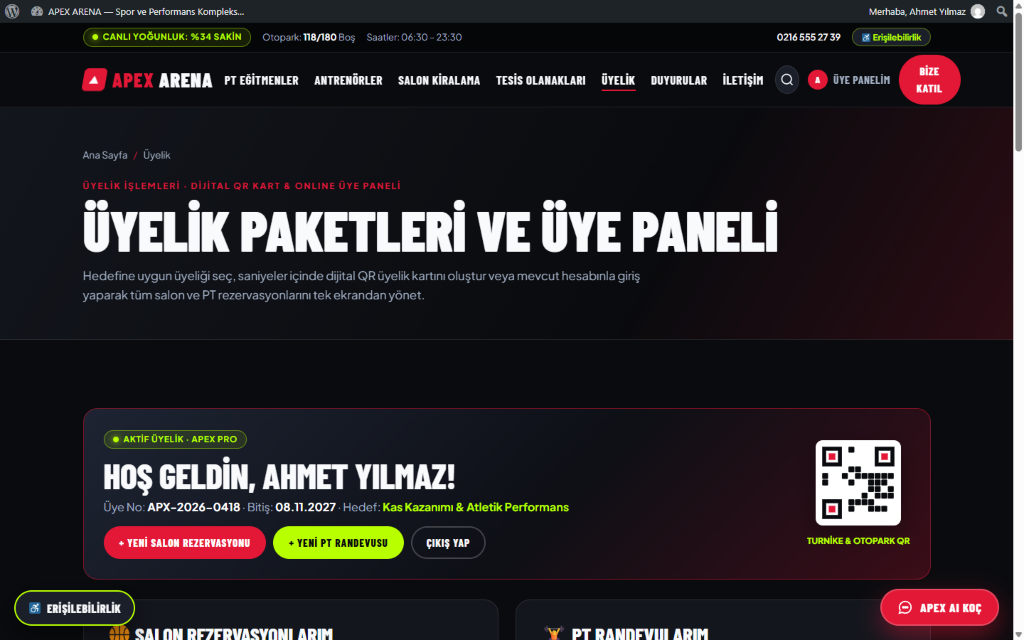
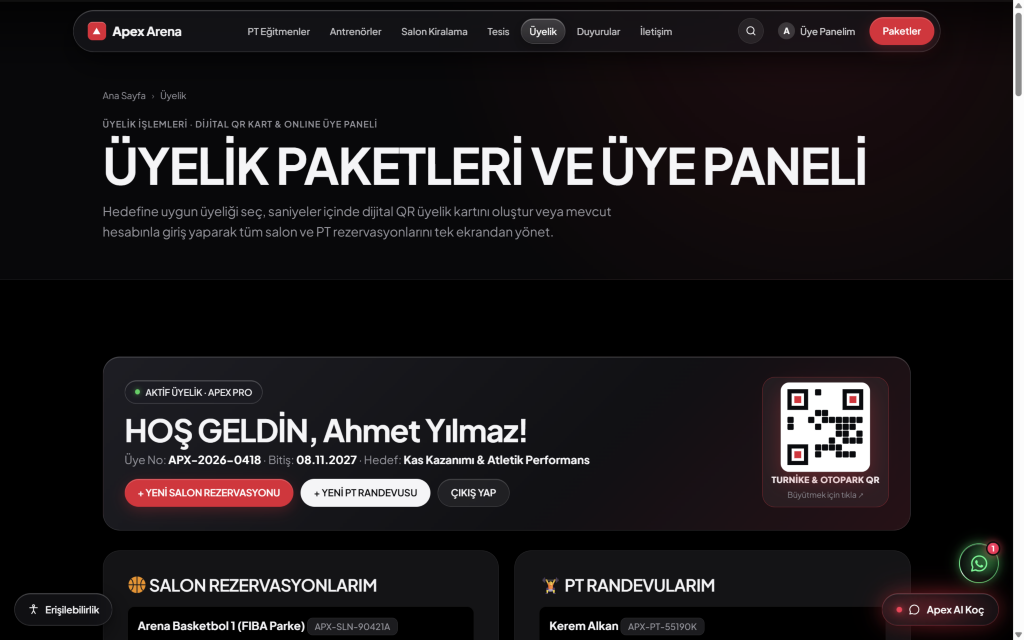
docs(readme): refresh screenshots with v2.0.3 neon admin dashboard, 7 coaches, WhatsApp/AI glow & equalized UI

diff --git a/README.md b/README.md
@@ -1,38 +1,43 @@
 # APEX ARENA — Spor ve Performans Kompleksi (WordPress Özel Tema & Ekosistem)
 
-![APEX ARENA Ana Sayfa — 60/120 FPS Scroll Mimari Tur & Animasyonlu WhatsApp Hattı](teslim_belgeleri/ekran_goruntuleri/16_whatsapp_hero_v170.png)
+![APEX ARENA Ana Sayfa — Liquid Glass Shape Morph Menü, Obsidian Neon WhatsApp & Kırmızı Glow AI Koç](teslim_belgeleri/ekran_goruntuleri/16_whatsapp_hero_v170.png)
 
-> **Modern spor kompleksleri için sıfırdan geliştirilmiş, tam entegre özel WordPress teması ve çok rollü yönetim ekosistemi (`v2.0.2`).**  
-> 60/120 FPS kaydırmayla oynayan mimari tur videosu, Three.js prosedürel 3D dambıl sahnesi, **Apple Fitness Neon Glow Koç Performans Stüdyosu (3 İç İçe Aktivite Halkası + Etkileşimli Grafikler + Beslenme Takvimi + 1-1 Mesajlaşma)**, interaktif tesis kat planı, makro hesaplı Protein Kafe ön sipariş sepeti, canlı **Gemini 2.5 Flash AI Spor Koçu**, lisanslı hakem + `.ics` takvim / WhatsApp maç davetli salon kiralama, **Excel/CSV Rapor Merkezi**, gerçek **Google Maps** ve **WCAG 2.2 AA/AAA** erişilebilirlik merkezini tek çatı altında sunar.
+> **Modern spor kompleksleri için sıfırdan geliştirilmiş, tam entegre özel WordPress teması ve çok rollü yönetim ekosistemi (`v2.0.3`).**  
+> 60/120 FPS kaydırmayla oynayan mimari tur videosu, Three.js prosedürel 3D dambıl sahnesi, **Obsidian Neon Glow Operasyon Yönetim Paneli**, **7 Uzman Koçluk Apple Fitness Neon Glow Koç Performans Stüdyosu (3 İç İçe Aktivite Halkası + Etkileşimli Grafikler + Beslenme Takvimi + 1-1 Mesajlaşma)**, **Liquid Glass Shape Morph üst menü & satır içi arama**, dönen zümrüt neon **WhatsApp Destek Hattı**, kırmızı glow **Gemini 2.5 Flash AI Spor Koçu**, büyütülebilir **Dijital QR Kart Pop-up**, interaktif tesis kat planı, makro hesaplı Protein Kafe ön sipariş sepeti, lisanslı hakem + `.ics` takvimli salon kiralama, **Excel/CSV Rapor Merkezi**, gerçek **Google Maps** ve **WCAG 2.2 AA/AAA** erişilebilirlik merkezini tek çatı altında sunar.
 
 ---
 
 ## Projenin Amacı
 
 **APEX ARENA**, bir spor ve performans kompleksinin 3 farklı kullanıcı rolünü tek bir özel WordPress + MySQL mimarisi üzerinde kesintisiz ve tam responsive (`1440px` Masaüstü · `768px` Tablet · `390px` Mobil) biçimde yönetmek amacıyla geliştirilmiştir:
-1. **Ziyaretçiler & Üyeler:** İnteraktif kat planıyla tesisi keşfeder, 3 soruluk akıllı quizle paketini bulur, salon/PT rezervasyonu yapar (`.ics` takvime ekler & WhatsApp maç daveti paylaşır), antrenman çıkışı Protein Kafe siparişi verir, dijital QR kartını kullanır ve kendi koçunun hazırladığı canlı beslenme takvimiyle 1-1 mesajlaşır.
-2. **Koçlar (`apex_coach` Özel Rolü):** Sadece kendi öğrencilerini görebildikleri izole grafiksel panelden seans/ilerleme/uyum grafiklerini takip eder, öğrenci durumuna göre 5 öğünlük beslenme takvimi + koç önerisi yayınlar ve birebir mesajlaşır.
-3. **Yöneticiler (`root`):** Canlı MySQL gelir dağılımını izler, tek tıkla Türkçe Excel uyumlu UTF-8 BOM CSV raporları indirir, kafe siparişlerini ve üye yorumlarını yönetir, tüm koçların portföylerini denetler.
+1. **Ziyaretçiler & Üyeler:** İnteraktif kat planıyla tesisi keşfeder, 3 soruluk akıllı quizle paketini bulur, salon/PT rezervasyonu yapar (`.ics` takvime ekler & WhatsApp maç daveti paylaşır), antrenman çıkışı Protein Kafe siparişi verir, tıklayınca büyüyen dijital QR kartını kullanır ve kendi koçunun hazırladığı canlı beslenme takvimiyle özel neon kaydırma çubuklu ekranda 1-1 mesajlaşır.
+2. **7 Uzman Koç (`apex_coach` Özel Rolü):** Sadece kendi öğrencilerini görebildikleri izole neon grafiksel panelden seans/ilerleme/uyum grafiklerini ve Apple Fitness aktivite halkalarını takip eder, öğrenci durumuna göre 5 öğünlük beslenme takvimi + koç önerisi yayınlar ve birebir mesajlaşır.
+3. **Yöneticiler (`root`):** Neon Glow Operasyon Paneli'nden canlı MySQL gelir dağılımını, 7 günlük talep & AI trendini, 3'lü tesis aktivite halkalarını ve canlı işlem akışını izler; tek tıkla Türkçe Excel uyumlu UTF-8 BOM CSV raporları indirir ve tüm 7 koçun (17 öğrenci) portföylerini denetler.
 
 ---
 
-## v2.0.0 Yeni Modüller & Ekran Görüntüleri
+## v2.0.3 Yeni Modüller & Güncel Ekran Görüntüleri
 
-### 1. Koça Özel Grafiksel Öğrenci Yönetim Paneli (`inc/coach-portal.php`)
-- **Tam Rol İzolasyonu (`apex_coach`):** Koçlar `/wp-login.php` üzerinden giriş yaptığında doğrudan **Koç Grafik & Öğrenci Yönetim Paneli**'ne (`admin.php?page=apex-coach-portal`) yönlendirilir. WordPress'in Eklentiler/Ayarlar/Kullanıcılar menüleri gizlenir ve her koç **yalnızca kendi atanmış öğrencilerini** görür ve düzenleyebilir *(REST API düzeyinde de `coach_user_id` sahiplik kontrolü uygulanır)*.
-- **5 Kartlık Koyu SVG Analiz Ekranı (0 Harici CDN):**
-  1. **Seans Karşılaştırması (Gruplu Sütun Grafiği):** Planlanan vs Tamamlanan PT seansları
-  2. **Gelişim & Uyum Trendi (Yumuşak Alan Grafiği):** Hedef ilerleme vs Beslenme/Program uyumu
-  3. **Öğrenci Durum Dağılımı (Pasta / Donut Grafiği):** *Hedefte, Dikkat, Yeni Başladı, Yoğun Takip*
-  4. **Program Uyum Oranları (İlerleme Barları):** Öğrenci bazlı canlı uyum yüzdeleri
-  5. **Öğrenci Durum Tablosu:** Renkli durum rozetleri, `↑` / `↓` trend göstergeleri ve tek tıkla düzenleme
-- **Canlı Beslenme Takvimi & Birebir Mesajlaşma:** Koçun kaydettiği **5 öğünlük beslenme takvimi + makrolar**, **koç önerisi** ve **birebir mesajlar** öğrencinin `/uyelik/?panel=1` paneline anında senkronize olur.
+### 1. Obsidian Neon Glow Yönetim Operasyon Paneli (`inc/admin-panel.php`)
+- **Canlı MySQL Telemetri & 4 Neon KPI Kartı:** Aktif salon rezervasyonları (hakemli maçlar dahil), PT randevuları, dijital QR üyelikler ve toplam işlem hacmi.
+- **3 Dinamik Neon Grafik + Apple Fitness 3'lü Tesis Aktivite Halkası:**
+  1. **Gelir Kanalı Performansı (Neon Bar Grafik):** Salon, PT, Üyelik ve Kafe için Hedef vs Gerçekleşen etkileşimli çubuklar.
+  2. **Operasyon & AI Trendi (Çift Neon Eğri):** Son 7 günlük Talep & Gelir (neon yeşil) ve Tesis & AI (turkuaz) eğrileri.
+  3. **Tesis Aktivite Halkaları (`Tesis` / `Gelir` Modlu):** Anlık Doluluk (%), Üye Memnuniyeti (`★ / 5.0`), Otopark Boş Alan (`118/180`) ve kanal ciro payları.
+- **Parlayan Küre Uçlu Gelir Barları, Filtrelenebilir Canlı Operasyon Akışı & 5'li UTF-8 BOM Excel/CSV Rapor Merkezi.**
 
-![Koç Grafik & Öğrenci Yönetim Paneli — Rol İzolasyonlu 5 Kartlı SVG Analiz](teslim_belgeleri/ekran_goruntuleri/22_koc_grafik_paneli_v200.png)
+![APEX ARENA — Obsidian Neon Glow Spor Kompleksi Operasyon Paneli](teslim_belgeleri/ekran_goruntuleri/26_admin_gelir_csv_v200.png)
 
-| Üye Panelinde Canlı Koç Beslenme Takvimi & 1-1 Sohbet | Admin Operasyon Merkezi — Canlı Gelir & CSV Raporları |
+### 2. 7 Uzman Koçlu Grafiksel Öğrenci Yönetim Paneli (`inc/coach-portal.php`)
+- **Tam Rol İzolasyonu (`apex_coach` · 7 Koç / 17 Öğrenci):** Koçlar `/wp-login.php` üzerinden giriş yaptığında doğrudan **Koç Grafik & Öğrenci Yönetim Paneli**'ne (`admin.php?page=apex-coach-portal`) yönlendirilir; her koç yalnızca kendi öğrencilerini yönetir. Yöneticiler üstteki **`Tüm Koçlar (7 Koç · 17 Öğrenci)`** menüsünden tüm koçlar arasında anlık geçiş yapabilir.
+- **Apple Fitness 3'lü Neon Aktivite Halkaları & Etkileşimli Grafikler:** Seans Performansı (bar), Gelişim & Beslenme Trendi (çift neon eğri), Aktivite Halkaları (`Öğrenci / Genel`), Program Uyumu barları ve filtrelenebilir Öğrenci Takip Listesi.
+- **Canlı Beslenme Takvimi & Birebir Mesajlaşma:** Koçun kaydettiği **5 öğünlük beslenme takvimi + makrolar**, **koç önerisi** ve **birebir mesajlar** öğrencinin `/uyelik/#uye-paneli` ekranına anında senkronize olur.
+
+![Koç Grafik & Öğrenci Yönetim Paneli — 7 Koçlu Apple Fitness Neon Glow Stüdyosu](teslim_belgeleri/ekran_goruntuleri/22_koc_grafik_paneli_v200.png)
+
+| Üye Paneli — Büyütülebilir Dijital QR Geçiş Kartı | Eşit Yükseklikli Beslenme Takvimi & Neon Scrollbar Koç Sohbeti |
 | :---: | :---: |
-| ![Üye Beslenme ve Koç Sohbet](teslim_belgeleri/ekran_goruntuleri/24_uye_beslenme_koc_sohbet_v200.png) | ![Admin Gelir ve CSV Raporları](teslim_belgeleri/ekran_goruntuleri/26_admin_gelir_csv_v200.png) |
+| ![Üye Paneli Dijital QR](teslim_belgeleri/ekran_goruntuleri/05-uye-paneli-dijital-qr.png) | ![Üye Beslenme ve Koç Sohbet](teslim_belgeleri/ekran_goruntuleri/24_uye_beslenme_koc_sohbet_v200.png) |
 
 ### 2. İnteraktif Tesis Kat Planı, Canlı 5 Yıldızlı Yorumlar & Protein Kafe Ön Sipariş Sepeti
 - **İnteraktif SVG Mimari Kat Planı (`/#kat-plani`):** 6 tıklanabilir kompleks bölgesi (*Basketbol 1, Basketbol 2, Voleybol Pro, PT & Kuvvet, Soyunma & Sauna, Kafe & Otopark*) ile anlık teknik özellik ve doğrudan rezervasyon bağlantısı.
@@ -66,10 +71,11 @@
 
 | Rol | Giriş Adresi | Kullanıcı Adı | Şifre | Açıklama |
 | :--- | :--- | :--- | :--- | :--- |
-| **WordPress Yönetici (Admin)** | `/wp-login.php` | `root` | `korkut2006` | Tam yönetim, Gelir/CSV, Kafe/Yorumlar, Tüm Koçlar |
-| **Koç Portalı (Kerem Alkan)** | `/wp-login.php` | `koc_kerem` | `ApexKoc2026!` | Yalnızca kendi 5 öğrencisi (Grafik + Beslenme + 1-1 Sohbet) |
-| **Koç Portalı (Elif Karaca)** | `/wp-login.php` | `koc_elif` | `ApexKoc2026!` | Yalnızca kendi 2 öğrencisi (Rol izolasyonlu) |
-| **Demo Üye (QR & Koç Takibi)** | `/uyelik/#giris` | `uye_demo` | `ApexUye2026!` | QR Kart + Koç Beslenme Takvimi + 1-1 Mesaj + Antrenman Günlüğü |
+| **WordPress Yönetici (Admin)** | `/wp-login.php` | `root` | `korkut2006` | Tam yönetim, Neon Glow Grafikler, CSV, Tüm 7 Koç |
+| **Koç Portalı (Kerem Alkan)** | `/wp-login.php` | `koc_kerem` | `ApexKoc2026!` | Kendi 5 öğrencisi (Grafik + Beslenme + 1-1 Sohbet) |
+| **Koç Portalı (Elif Karaca)** | `/wp-login.php` | `koc_elif` | `ApexKoc2026!` | Kendi 2 öğrencisi (Rol izolasyonlu) |
+| **Diğer 5 Uzman Koç** | `/wp-login.php` | `koc_selin`, `koc_mert`, `koc_caner`, `koc_buse`, `koc_emirhan` | `ApexKoc2026!` | Her biri kendi 2 öğrencisi, beslenme planı ve grafikleriyle |
+| **Demo Üye (QR & Koç Takibi)** | `/uyelik/#giris` | `uye_demo` | `ApexUye2026!` | Büyüyen QR Kart + Koç Beslenme Takvimi + 1-1 Mesaj + Antrenman Günlüğü |
 
 ---
 
@@ -144,4 +150,4 @@ Tüm sayfalar **Masaüstü (`1440×900`)**, **Tablet (`768×1024`)** ve **Mobil 
 
 ---
 
-**Geliştirici:** İbrahim Korkut · **Sürüm:** `v2.0.2` · **Lisans:** GPL v2 or later
+**Geliştirici:** İbrahim Korkut · **Sürüm:** `v2.0.3` · **Lisans:** GPL v2 or later
